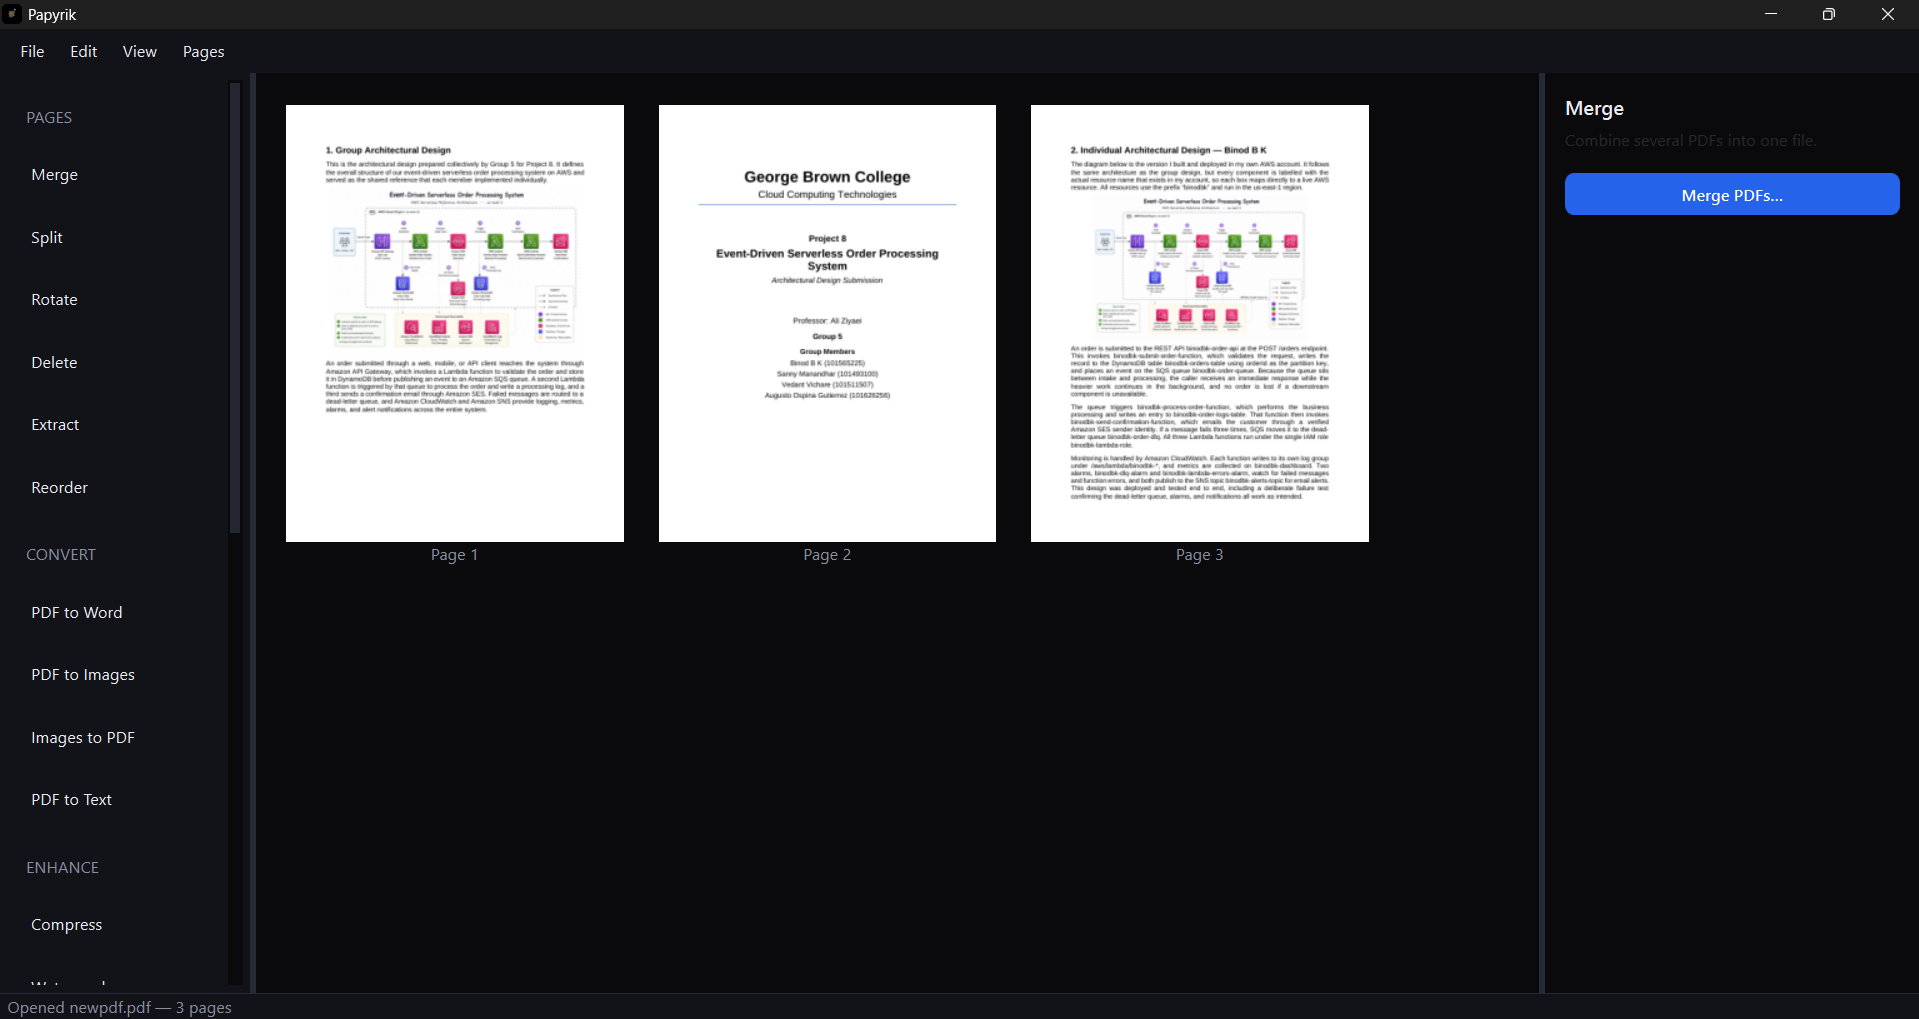
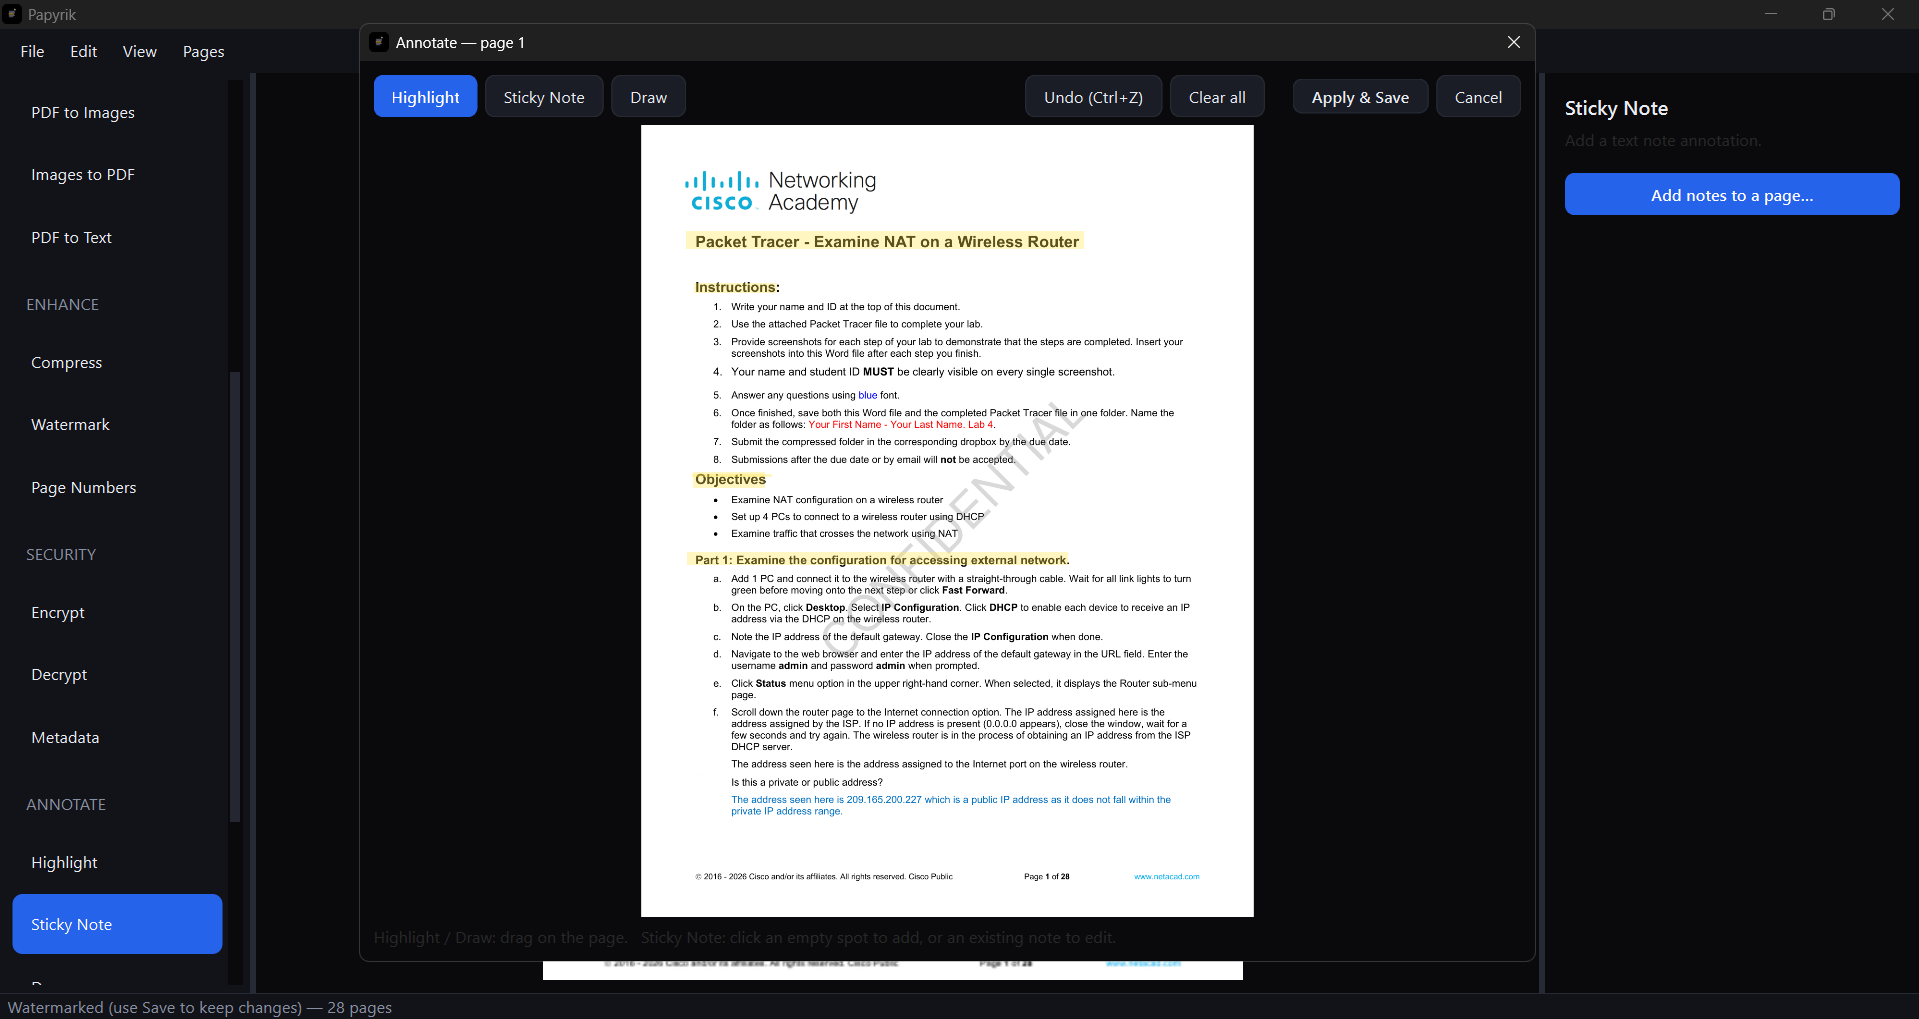
Highlight colours + refreshed screenshots
- Highlight tool now offers 5 colours (yellow, green, pink, blue, orange) via
  swatches in the annotation toolbar; each highlight stores its own colour.
  core annotate.highlight() takes a color; apply_all accepts (rect, color)
  pairs and still accepts bare rects (default yellow) for compatibility.
- README: use the refreshed, non-personal screenshots (Cisco lab worksheet) and
  a 2x2 gallery; note multi-colour highlight; bump test count to 145.
- tests: highlight applies the given colour; bare-rect default still works.

Full suite: 145 passing.

diff --git a/papyrik/ui/annotation_view.py b/papyrik/ui/annotation_view.py
@@ -22,6 +22,7 @@ from PyQt6.QtGui import (
     QShortcut,
 )
 from PyQt6.QtWidgets import (
+    QButtonGroup,
     QDialog,
     QHBoxLayout,
     QInputDialog,
@@ -35,10 +36,22 @@ from PyQt6.QtWidgets import (
 from papyrik.core.document import PdfDocument
 
 _RENDER_DPI = 150
-_HL_FILL = QColor(255, 230, 80, 90)
 _INK_PEN = QColor(210, 30, 30)
 _NOTE_COLOR = QColor(240, 200, 60)
 _PAGE_BORDER = QColor(0, 0, 0, 40)
+
+# Highlighter colours: (name, (r, g, b) in 0-1). First is the default.
+_HL_COLORS = [
+    ("Yellow", (1.0, 0.90, 0.30)),
+    ("Green", (0.55, 0.92, 0.50)),
+    ("Pink", (1.0, 0.60, 0.78)),
+    ("Blue", (0.50, 0.78, 1.0)),
+    ("Orange", (1.0, 0.72, 0.30)),
+]
+
+
+def _fill(rgb: tuple, alpha: int = 90) -> QColor:
+    return QColor(int(rgb[0] * 255), int(rgb[1] * 255), int(rgb[2] * 255), alpha)
 
 
 class _Canvas(QWidget):
@@ -59,7 +72,8 @@ class _Canvas(QWidget):
         self.setMouseTracking(True)
 
         self.tool = "draw"                          # draw | highlight | note
-        self.highlights: list[QRectF] = []          # PDF coords
+        self.hl_color = _HL_COLORS[0][1]            # current highlighter colour
+        self.highlights: list[tuple[QRectF, tuple]] = []  # (rect, rgb) PDF coords
         self.strokes: list[list[QPointF]] = []       # PDF coords
         self.notes: list[tuple[QPointF, str]] = []    # PDF coords
         self._order: list[str] = []                  # for last-in undo
@@ -97,10 +111,11 @@ class _Canvas(QWidget):
         painter.drawRect(target)
 
         painter.setPen(Qt.PenStyle.NoPen)
-        painter.setBrush(_HL_FILL)
-        for rect in self.highlights:
+        for rect, color in self.highlights:
+            painter.setBrush(_fill(color))
             painter.drawRect(self._rect_to_screen(rect))
         if self._box_start and self._box_cur:
+            painter.setBrush(_fill(self.hl_color))
             painter.drawRect(QRectF(self._to_screen(self._box_start.x(),
                                                     self._box_start.y()),
                                     self._to_screen(self._box_cur.x(),
@@ -186,7 +201,7 @@ class _Canvas(QWidget):
         elif self.tool == "highlight" and self._box_start is not None:
             rect = QRectF(self._box_start, pos).normalized()
             if rect.width() > 2 and rect.height() > 2:
-                self.highlights.append(rect)
+                self.highlights.append((rect, self.hl_color))
                 self._order.append("highlight")
             self._box_start = self._box_cur = None
             self.update()
@@ -237,6 +252,25 @@ class AnnotationView(QDialog):
             button.clicked.connect(lambda _c, n=name: self._set_tool(n))
             self._buttons[name] = button
             toolbar.addWidget(button)
+
+        toolbar.addSpacing(12)
+        self._swatches = QButtonGroup(self)
+        for i, (cname, rgb) in enumerate(_HL_COLORS):
+            swatch = QPushButton()
+            swatch.setFixedSize(22, 22)
+            swatch.setCheckable(True)
+            swatch.setChecked(i == 0)
+            swatch.setToolTip(f"Highlight colour: {cname}")
+            hexc = "#%02X%02X%02X" % (int(rgb[0] * 255), int(rgb[1] * 255),
+                                      int(rgb[2] * 255))
+            swatch.setStyleSheet(
+                f"QPushButton{{background:{hexc};border-radius:4px;"
+                "border:2px solid #00000000;}"
+                "QPushButton:checked{border:2px solid #FFFFFF;}")
+            swatch.clicked.connect(lambda _c, c=rgb: self._set_hl_color(c))
+            self._swatches.addButton(swatch)
+            toolbar.addWidget(swatch)
+
         toolbar.addStretch(1)
         undo = QPushButton("Undo (Ctrl+Z)")
         undo.clicked.connect(self._canvas.undo)
@@ -273,10 +307,13 @@ class AnnotationView(QDialog):
         for key, button in self._buttons.items():
             button.setChecked(key == name)
 
+    def _set_hl_color(self, rgb: tuple) -> None:
+        self._canvas.hl_color = rgb
+
     def result_annotations(self) -> dict:
         """Collected annotations, already in PDF coordinates."""
-        highlights = [(r.left(), r.top(), r.right(), r.bottom())
-                      for r in self._canvas.highlights]
+        highlights = [((r.left(), r.top(), r.right(), r.bottom()), color)
+                      for r, color in self._canvas.highlights]
         notes = [((p.x(), p.y()), text) for p, text in self._canvas.notes]
         strokes = [[(p.x(), p.y()) for p in stroke]
                    for stroke in self._canvas.strokes]

diff --git a/papyrik/core/operations/annotate.py b/papyrik/core/operations/annotate.py
@@ -40,20 +40,31 @@ def _page(doc: pymupdf.Document, index: int) -> pymupdf.Page:
 
 
 def highlight(input_pdf: str | Path, page: int, rects: list[tuple],
-              output: str | Path) -> Path:
-    """Highlight the given rectangles (x0, y0, x1, y1) on `page`."""
+              output: str | Path, color: tuple = _HIGHLIGHT_RGB) -> Path:
+    """Highlight the given rectangles (x0, y0, x1, y1) on `page` in `color`."""
     if not rects:
         raise ValueError("highlight needs at least one rectangle.")
     doc = _open_pdf(input_pdf)
     try:
         pg = _page(doc, page)
         for rect in rects:
-            annot = pg.add_highlight_annot(pymupdf.Rect(rect))
-            annot.set_colors(stroke=_HIGHLIGHT_RGB)
-            annot.update()
+            _add_highlight(pg, rect, color)
         return _save(doc, output)
     finally:
         doc.close()
+
+
+def _add_highlight(page: pymupdf.Page, rect: tuple, color: tuple) -> None:
+    annot = page.add_highlight_annot(pymupdf.Rect(rect))
+    annot.set_colors(stroke=color)
+    annot.update()
+
+
+def _split_highlight(entry) -> tuple[tuple, tuple]:
+    """Accept a bare rect (default colour) or a (rect, color) pair."""
+    if len(entry) == 2 and hasattr(entry[0], "__len__") and len(entry[0]) == 4:
+        return tuple(entry[0]), tuple(entry[1])
+    return tuple(entry), _HIGHLIGHT_RGB
 
 
 def text_note(input_pdf: str | Path, page: int, point: tuple, text: str,
@@ -104,10 +115,9 @@ def apply_all(input_pdf: str | Path, output: str | Path, page: int, *,
     doc = _open_pdf(input_pdf)
     try:
         pg = _page(doc, page)
-        for rect in highlights:
-            annot = pg.add_highlight_annot(pymupdf.Rect(rect))
-            annot.set_colors(stroke=_HIGHLIGHT_RGB)
-            annot.update()
+        for entry in highlights:
+            rect, color = _split_highlight(entry)
+            _add_highlight(pg, rect, color)
         for point, text in notes:
             if text:
                 _add_note(pg, point, text)

diff --git a/tests/test_annotate.py b/tests/test_annotate.py
@@ -110,3 +110,23 @@ def test_apply_all_mixed(tmp_path):
 def test_apply_all_empty_raises(tmp_path):
     with pytest.raises(ValueError):
         annotate.apply_all(_fixture("cjk.pdf"), tmp_path / "x.pdf", 0)
+
+
+def test_highlight_uses_given_colour(tmp_path):
+    green = (0.2, 0.8, 0.3)
+    out = annotate.apply_all(
+        _fixture("cjk.pdf"), tmp_path / "a.pdf", 0,
+        highlights=[((72, 90, 300, 130), green)])
+    with pymupdf.open(str(out)) as doc:
+        strokes = [a.colors.get("stroke") for a in doc[0].annots()
+                   if a.type[1] == "Highlight"]
+    assert strokes and strokes[0] is not None
+    r, g, b = strokes[0]
+    assert g > r and g > b  # green channel dominant, not the default yellow
+
+
+def test_highlight_bare_rect_still_works(tmp_path):
+    # Backward compatible: a plain rect (no colour) defaults to yellow.
+    out = annotate.apply_all(_fixture("cjk.pdf"), tmp_path / "a.pdf", 0,
+                             highlights=[(72, 90, 300, 130)])
+    assert "Highlight" in _annot_types(out)

diff --git a/tests/test_ui.py b/tests/test_ui.py
@@ -558,11 +558,14 @@ def test_annotation_view_returns_pdf_coords_and_undo(app, window):
     view = AnnotationView(window._current, 0, "highlight", window)
 
     # Annotations are stored in PDF points and returned unchanged.
-    view._canvas.highlights.append(QRectF(QPointF(10, 20), QPointF(110, 70)))
+    view._canvas.highlights.append(
+        (QRectF(QPointF(10, 20), QPointF(110, 70)), (1.0, 0.9, 0.3)))
     view._canvas._order.append("highlight")
     view._canvas.notes.append((QPointF(50, 60), "hi"))
     view._canvas._order.append("note")
-    assert view.result_annotations()["highlights"][0] == (10.0, 20.0, 110.0, 70.0)
+    rect, color = view.result_annotations()["highlights"][0]
+    assert rect == (10.0, 20.0, 110.0, 70.0)
+    assert color == (1.0, 0.9, 0.3)
 
     # Undo removes only the last annotation (the note), not the highlight.
     view._canvas.undo()

diff --git a/README.md b/README.md
@@ -9,7 +9,7 @@
 
 - **Platform:** Windows (desktop)
 - **Stack:** Python 3.11+ · PyQt6 · PyMuPDF · pypdf · pdf2docx · Pillow
-- **Status:** 143 automated tests passing
+- **Status:** 145 automated tests passing
 
 ---
 
@@ -21,12 +21,12 @@
 
 <table>
 <tr>
-<td width="50%"><img src="Screenshot/B.png" alt="Page thumbnail grid"><br><sub>Page grid — multi-select, drag-to-reorder, zoom</sub></td>
-<td width="50%"><img src="Screenshot/C.png" alt="Watermark options"><br><sub>Watermark — text or image, opacity, rotation, size, position</sub></td>
+<td width="50%"><img src="Screenshot/B.png" alt="Annotate"><br><sub>Annotate — highlight (multiple colours), sticky note, draw</sub></td>
+<td width="50%"><img src="Screenshot/E.png" alt="Watermark"><br><sub>Watermark — text or image, opacity, rotation, size, position</sub></td>
 </tr>
 <tr>
-<td width="50%"><img src="Screenshot/D.png" alt="PDF to Word"><br><sub>Convert — PDF to Word, Images, or Text</sub></td>
-<td width="50%"></td>
+<td width="50%"><img src="Screenshot/D.png" alt="Convert"><br><sub>Convert — PDF to Word, Images, or Text</sub></td>
+<td width="50%"><img src="Screenshot/C.png" alt="Metadata"><br><sub>Metadata — view and edit document info</sub></td>
 </tr>
 </table>
 
@@ -120,7 +120,7 @@ Long operations run on a background thread, so the window never freezes, and eac
 
 | Feature | What it does |
 | --- | --- |
-| **Highlight** | Drag a box on the page to highlight a region. |
+| **Highlight** | Drag a box to highlight a region, in your choice of colour (yellow, green, pink, blue, orange). |
 | **Sticky note** | Click to drop a note and type its text; click an existing note to read/edit it. Read notes anywhere via the page viewer. |
 | **Draw** | Freehand ink with the mouse. |
 
